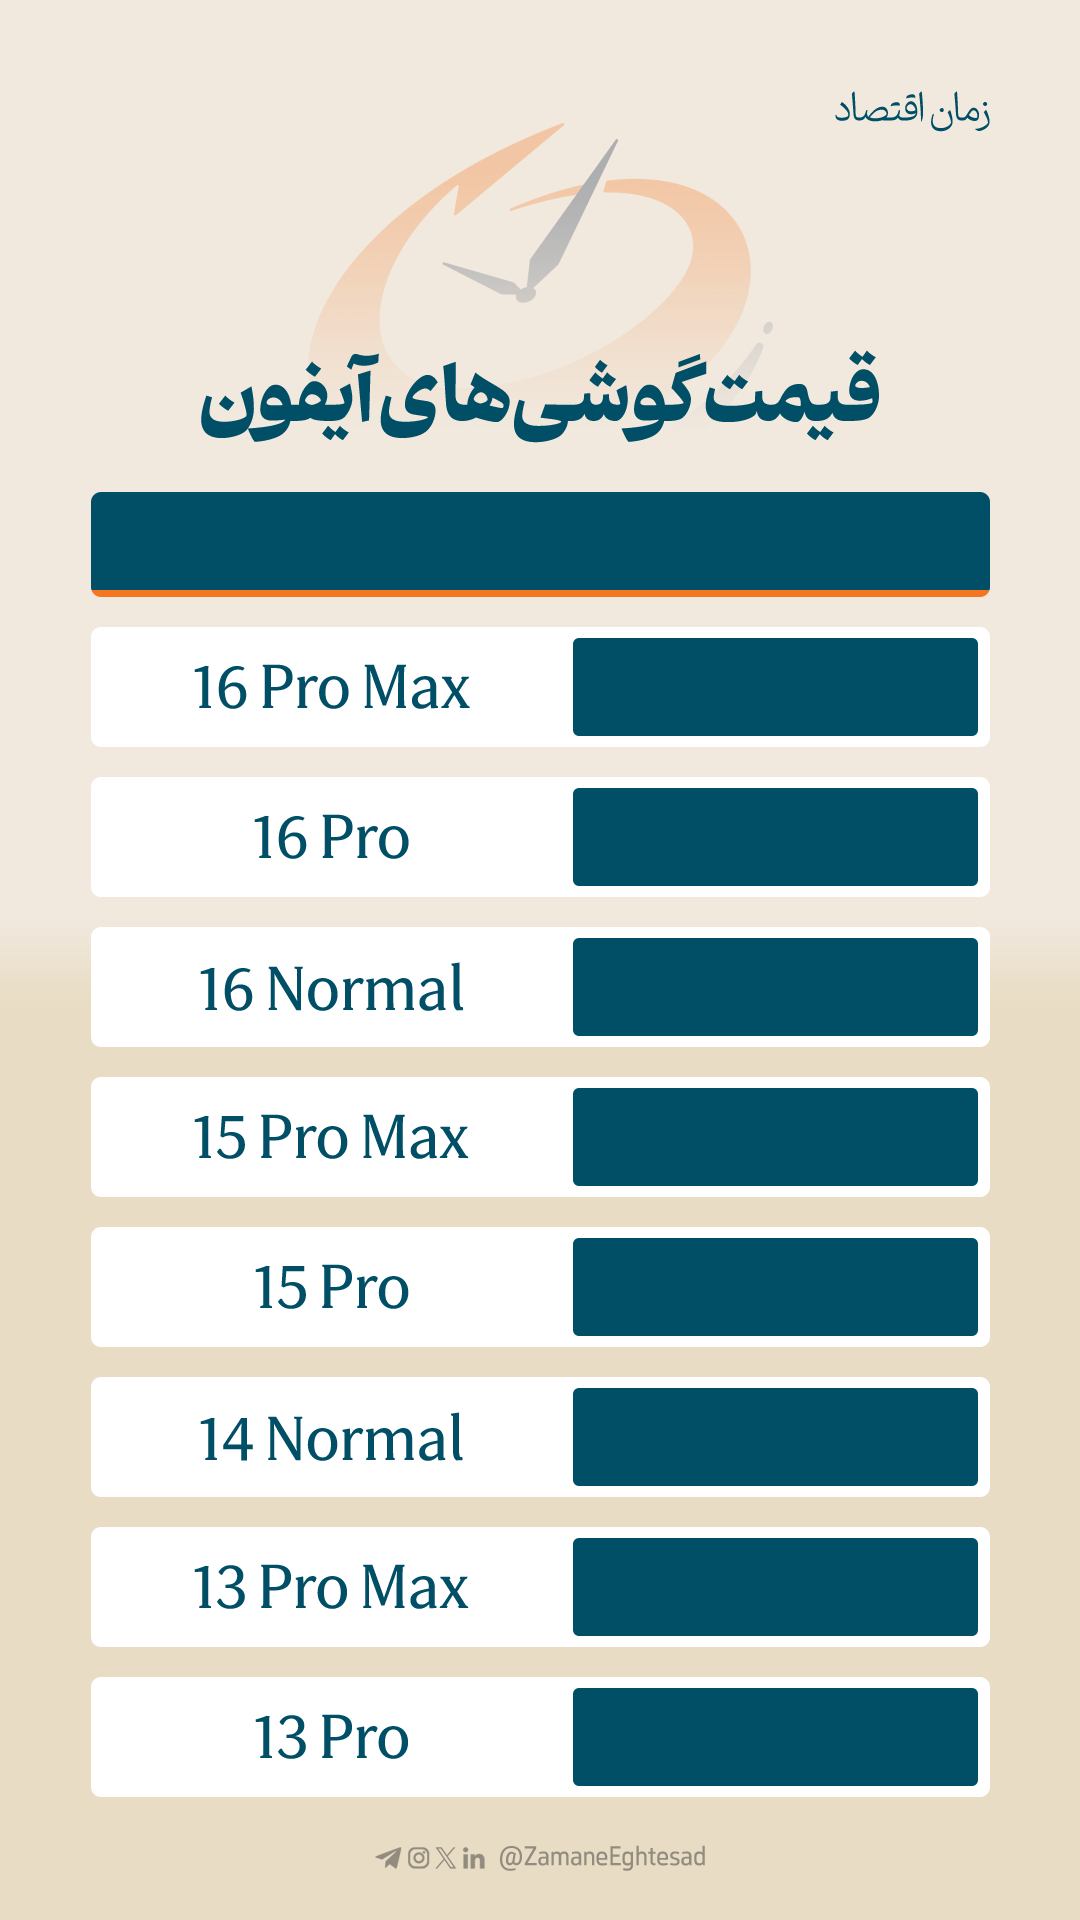
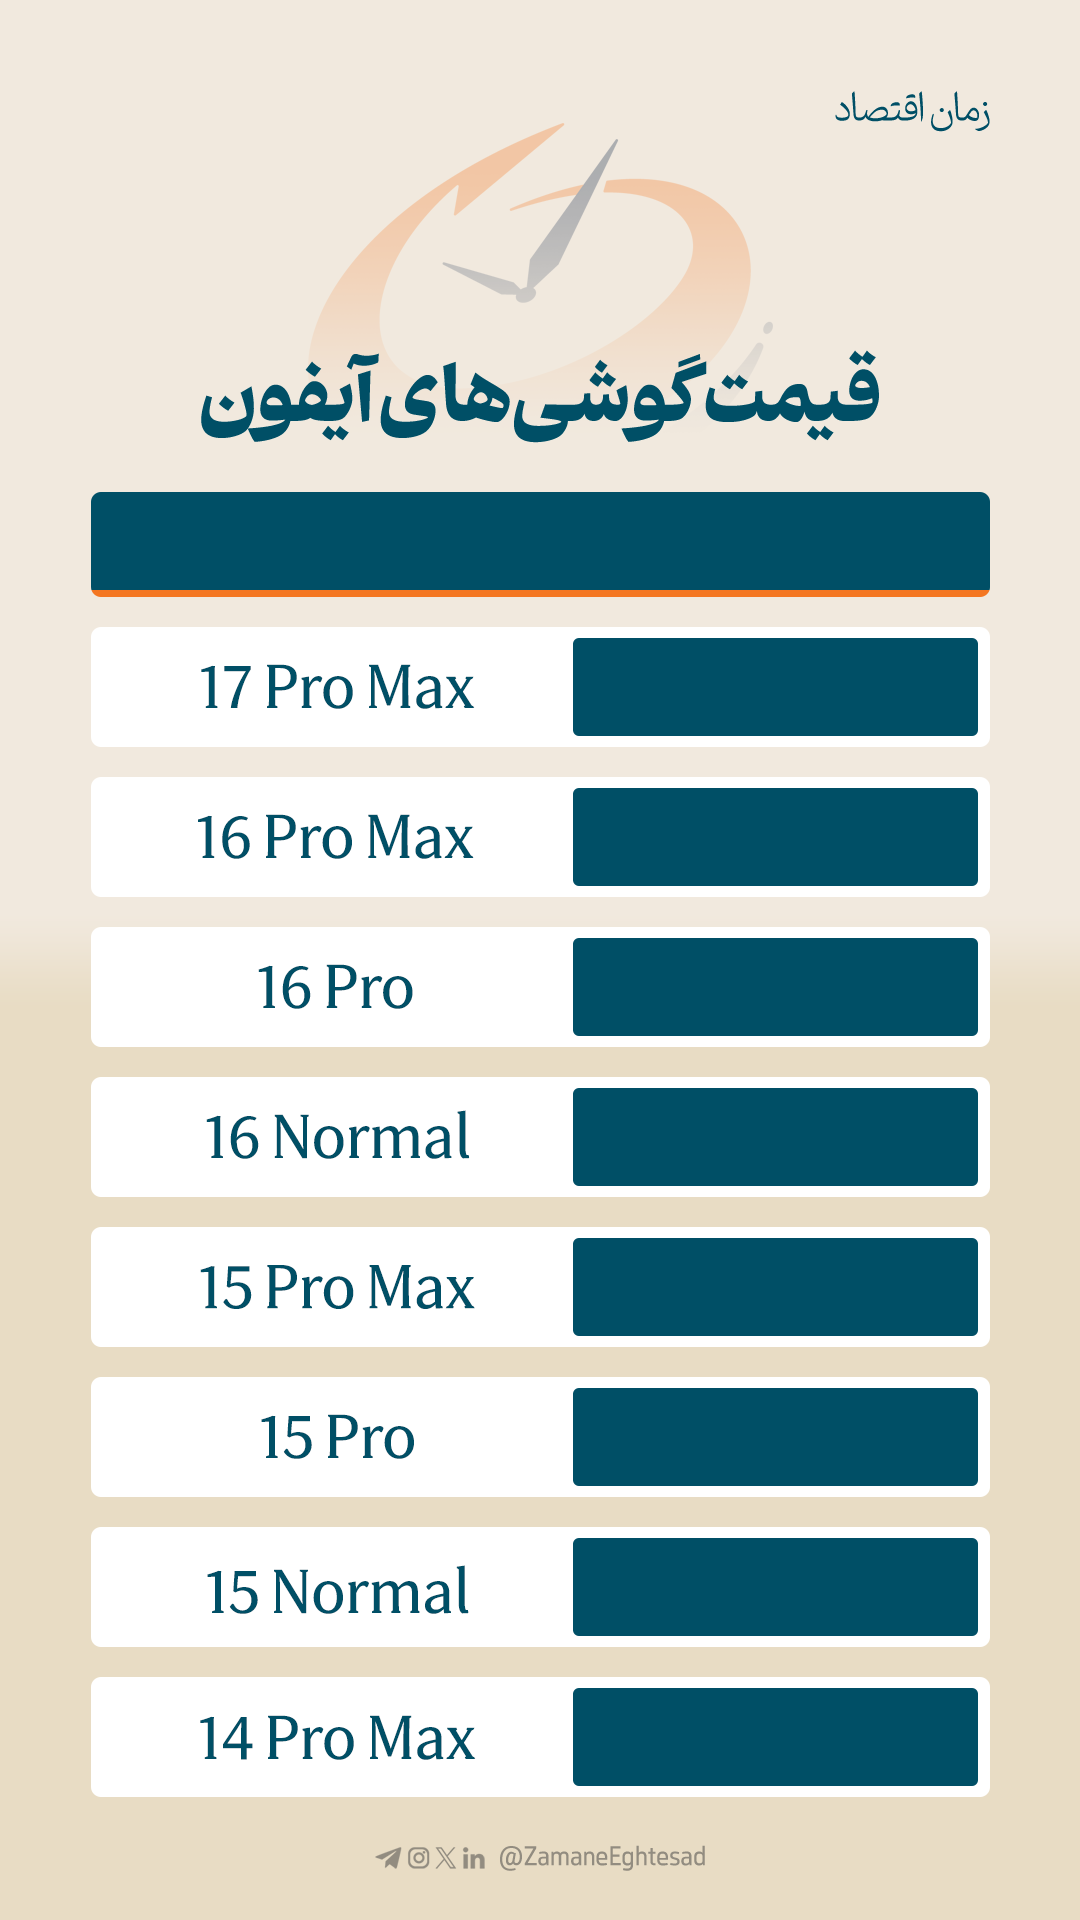
.

diff --git a/src/iPhone.ts b/src/iPhone.ts
@@ -228,21 +228,21 @@ function buildFormMenu(conversation: Conversation<MyContext, any>, data: FormDat
     return (
         conversation
             .menu("form")
-            .text(data.IPHONE16PROMAX ? "16 Pro Max" : "16 Pro Max", (ctx) => ctx.conversation.enter("IPHONE16PROMAXConversation"))
+            .text(data.IPHONE16PROMAX ? "17 Pro Max" : "17 Pro Max", (ctx) => ctx.conversation.enter("IPHONE16PROMAXConversation"))
             .row()
-            .text(data.IPHONE16PRO ? "16 Pro " : "16 Pro ", (ctx) => ctx.conversation.enter("IPHONE16PROConversation"))
+            .text(data.IPHONE16PRO ? "16 Pro Max " : "16 Pro Max ", (ctx) => ctx.conversation.enter("IPHONE16PROConversation"))
             .row()
-            .text(data.IPHONE16NORMAL ? "16 Normal " : "16 Normal ", (ctx) => ctx.conversation.enter("IPHONE16NORMALConversation"))
+            .text(data.IPHONE16NORMAL ? "16 Pro " : "16 Pro ", (ctx) => ctx.conversation.enter("IPHONE16NORMALConversation"))
             .row()
-            .text(data.IPHONE15PROMAX ? "15 Pro Max " : "15 Pro Max ", (ctx) => ctx.conversation.enter("IPHONE15PROMAXConversation"))
+            .text(data.IPHONE15PROMAX ? "16 Normal " : "16 Normal ", (ctx) => ctx.conversation.enter("IPHONE15PROMAXConversation"))
             .row()
-            .text(data.IPHONE15PRO ? "15 Pro " : "15 Pro ", (ctx) => ctx.conversation.enter("IPHONE15PROConversation"))
+            .text(data.IPHONE15PRO ? "15 Pro Max " : "15 Pro Max ", (ctx) => ctx.conversation.enter("IPHONE15PROConversation"))
             .row()
-            .text(data.IPHONE14NORMAL ? "14 Normal " : "14 Normal ", (ctx) => ctx.conversation.enter("IPHONE14NORMALConversation"))
+            .text(data.IPHONE14NORMAL ? "15 Pro " : "15 Pro ", (ctx) => ctx.conversation.enter("IPHONE14NORMALConversation"))
             .row()
-            .text(data.IPHONE13PROMAX ? "13 Pro Max " : "13 Pro Max ", (ctx) => ctx.conversation.enter("IPHONE13PROMAXConversation"))
+            .text(data.IPHONE13PROMAX ? "15 Normal " : "15 Normal ", (ctx) => ctx.conversation.enter("IPHONE13PROMAXConversation"))
             .row()
-            .text(data.IPHONE13PROMAX ? "13 Pro " : "13 Pro ", (ctx) => ctx.conversation.enter("IPHONE13PROConversation"))
+            .text(data.IPHONE13PROMAX ? "14 Pro Max " : "14 Pro Max ", (ctx) => ctx.conversation.enter("IPHONE13PROConversation"))
             .row()
             .text("فایل ✅", (ctx) => ctx.conversation.enter("finishConversation"))
             .text("🧹", (ctx) => ctx.conversation.enter("clearFormConversation"))
@@ -258,14 +258,14 @@ function createiPhoneConversation(fieldName: iPhoneField, prompt: string) {
     };
 }
 
-const IPHONE16PROMAXConversation = createiPhoneConversation("IPHONE16PROMAX", "لطفا مقدار   iPhone 16 Pro Max  را وارد کنید");
-const IPHONE16PROConversation = createiPhoneConversation("IPHONE16PRO", "لطفا مقدار iPhone 16 Pro را وارد کنید");
-const IPHONE16NORMALConversation = createiPhoneConversation("IPHONE16NORMAL", "لطفا مقدار iPhone 16 Normal را وارد کنید");
-const IPHONE15PROMAXConversation = createiPhoneConversation("IPHONE15PROMAX", "لطفا مقدار iPhone 15 Pro Max را وارد کنید");
-const IPHONE15PROConversation = createiPhoneConversation("IPHONE15PRO", "لطفا مقدار iPhone 15 Pro را وارد کنید");
-const IPHONE14NORMALConversation = createiPhoneConversation("IPHONE14NORMAL", "لطفا مقدار iPhone 14 Normal را وارد کنید");
-const IPHONE13PROMAXConversation = createiPhoneConversation("IPHONE13PROMAX", "لطفا مقدار iPhone 13 Pro Max  را وارد کنید");
-const IPHONE13PROConversation = createiPhoneConversation("IPHONE13PRO", "لطفا مقدار iPhone 13 Pro  را وارد کنید");
+const IPHONE16PROMAXConversation = createiPhoneConversation("IPHONE16PROMAX", "لطفا مقدار   iPhone 17 Pro Max  را وارد کنید");
+const IPHONE16PROConversation = createiPhoneConversation("IPHONE16PRO", "لطفا مقدار iPhone 16 Pro Max را وارد کنید");
+const IPHONE16NORMALConversation = createiPhoneConversation("IPHONE16NORMAL", "لطفا مقدار iPhone 16 Pro را وارد کنید");
+const IPHONE15PROMAXConversation = createiPhoneConversation("IPHONE15PROMAX", "لطفا مقدار iPhone 16 Normal را وارد کنید");
+const IPHONE15PROConversation = createiPhoneConversation("IPHONE15PRO", "لطفا مقدار iPhone 15 Pro Max را وارد کنید");
+const IPHONE14NORMALConversation = createiPhoneConversation("IPHONE14NORMAL", "لطفا مقدار iPhone 15 Pro را وارد کنید");
+const IPHONE13PROMAXConversation = createiPhoneConversation("IPHONE13PROMAX", "لطفا مقدار iPhone 15 Normal  را وارد کنید");
+const IPHONE13PROConversation = createiPhoneConversation("IPHONE13PRO", "لطفا مقدار iPhone 14 Pro Max  را وارد کنید");
 
 // clear form conversation
 async function clearFormConversation(conversation: FieldConversation, ctx: FieldContext) {
@@ -330,24 +330,24 @@ async function finishConversation(
 
 // ---- Access Control Gate ----
 bot.use(async (ctx, next) => {
-  // 1) Never send deny messages outside DMs
-  const chatType = ctx.chat?.type; // 'private' | 'group' | 'supergroup' | 'channel'
-  const isDM = chatType === "private";
+    // 1) Never send deny messages outside DMs
+    const chatType = ctx.chat?.type; // 'private' | 'group' | 'supergroup' | 'channel'
+    const isDM = chatType === "private";
 
-  // For channels, there is usually no ctx.from; skip entirely.
-  if (chatType === "channel") return; // do nothing in channels
+    // For channels, there is usually no ctx.from; skip entirely.
+    if (chatType === "channel") return; // do nothing in channels
 
-  const uid = ctx.from?.id;
-  if (!uid) return; // ignore updates without a user
+    const uid = ctx.from?.id;
+    if (!uid) return; // ignore updates without a user
 
-  // 2) Allow admins/allowed everywhere
-  if (isAdmin(uid) || isAllowed(uid)) return next();
+    // 2) Allow admins/allowed everywhere
+    if (isAdmin(uid) || isAllowed(uid)) return next();
 
-  // 3) Block silently in groups/supergroups, show message only in DMs
-  if (isDM) {
-    try { await ctx.reply("⛔ You are not allowed to use this bot."); } catch {}
-  }
-  return; // block
+    // 3) Block silently in groups/supergroups, show message only in DMs
+    if (isDM) {
+        try { await ctx.reply("⛔ You are not allowed to use this bot."); } catch { }
+    }
+    return; // block
 });
 
 // --------------------------------------------------
@@ -370,21 +370,21 @@ bot.use(createConversation(finishConversation, "finishConversation"));
 //  Stand‑alone menu instance (needed for /start)
 // --------------------------------------------------
 export const formMenu = new Menu<MyContext>("form", { onMenuOutdated: false })
-    .text((ctx) => collectFormData(ctx).IPHONE16PROMAX ? "16 Pro Max" : "16 Pro Max", (ctx) => ctx.conversation.enter("IPHONE16PROMAXConversation"))
+    .text((ctx) => collectFormData(ctx).IPHONE16PROMAX ? "17 Pro Max" : "17 Pro Max", (ctx) => ctx.conversation.enter("IPHONE16PROMAXConversation"))
     .row()
-    .text((ctx) => collectFormData(ctx).IPHONE16PRO ? "16 Pro " : "16 Pro ", (ctx) => ctx.conversation.enter("IPHONE16PROConversation"))
+    .text((ctx) => collectFormData(ctx).IPHONE16PRO ? "16 Pro Max " : "16 Pro Max ", (ctx) => ctx.conversation.enter("IPHONE16PROConversation"))
     .row()
-    .text((ctx) => collectFormData(ctx).IPHONE16NORMAL ? "16 Normal " : "16 Normal ", (ctx) => ctx.conversation.enter("IPHONE16NORMALConversation"))
+    .text((ctx) => collectFormData(ctx).IPHONE16NORMAL ? "16 Pro " : "16 Pro ", (ctx) => ctx.conversation.enter("IPHONE16NORMALConversation"))
     .row()
-    .text((ctx) => collectFormData(ctx).IPHONE15PROMAX ? "15 Pro Max " : "15 Pro Max ", (ctx) => ctx.conversation.enter("IPHONE15PROMAXConversation"))
+    .text((ctx) => collectFormData(ctx).IPHONE15PROMAX ? "16 Normal " : "16 Normal ", (ctx) => ctx.conversation.enter("IPHONE15PROMAXConversation"))
     .row()
-    .text((ctx) => collectFormData(ctx).IPHONE15PRO ? "15 Pro " : "15 Pro ", (ctx) => ctx.conversation.enter("IPHONE15PROConversation"))
+    .text((ctx) => collectFormData(ctx).IPHONE15PRO ? "15 Pro Max " : "15 Pro Max ", (ctx) => ctx.conversation.enter("IPHONE15PROConversation"))
     .row()
-    .text((ctx) => collectFormData(ctx).IPHONE14NORMAL ? "14 Normal " : "14 Normal ", (ctx) => ctx.conversation.enter("IPHONE14NORMALConversation"))
+    .text((ctx) => collectFormData(ctx).IPHONE14NORMAL ? "15 Pro " : "15 Pro ", (ctx) => ctx.conversation.enter("IPHONE14NORMALConversation"))
     .row()
-    .text((ctx) => collectFormData(ctx).IPHONE13PROMAX ? "13 Pro Max " : "13 Pro Max ", (ctx) => ctx.conversation.enter("IPHONE13PROMAXConversation"))
+    .text((ctx) => collectFormData(ctx).IPHONE13PROMAX ? "15 Normal " : "15 Normal ", (ctx) => ctx.conversation.enter("IPHONE13PROMAXConversation"))
     .row()
-    .text((ctx) => collectFormData(ctx).IPHONE13PROMAX ? "13 Pro " : "13 Pro ", (ctx) => ctx.conversation.enter("IPHONE13PROConversation"))
+    .text((ctx) => collectFormData(ctx).IPHONE13PROMAX ? "14 Pro Max " : "14 Pro Max ", (ctx) => ctx.conversation.enter("IPHONE13PROConversation"))
     .row()
     .text("فایل ✅", (ctx) => ctx.conversation.enter("finishConversation"))
     .text("🧹", (ctx) => ctx.conversation.enter("clearFormConversation"));

diff --git a/build/iPhone.js b/build/iPhone.js
@@ -126,21 +126,21 @@ async function handleFieldInput(conversation, ctx, options, buildMenu) {
 function buildFormMenu(conversation, data) {
     return (conversation
         .menu("form")
-        .text(data.IPHONE16PROMAX ? "16 Pro Max" : "16 Pro Max", (ctx) => ctx.conversation.enter("IPHONE16PROMAXConversation"))
+        .text(data.IPHONE16PROMAX ? "17 Pro Max" : "17 Pro Max", (ctx) => ctx.conversation.enter("IPHONE16PROMAXConversation"))
         .row()
-        .text(data.IPHONE16PRO ? "16 Pro " : "16 Pro ", (ctx) => ctx.conversation.enter("IPHONE16PROConversation"))
+        .text(data.IPHONE16PRO ? "16 Pro Max " : "16 Pro Max ", (ctx) => ctx.conversation.enter("IPHONE16PROConversation"))
         .row()
-        .text(data.IPHONE16NORMAL ? "16 Normal " : "16 Normal ", (ctx) => ctx.conversation.enter("IPHONE16NORMALConversation"))
+        .text(data.IPHONE16NORMAL ? "16 Pro " : "16 Pro ", (ctx) => ctx.conversation.enter("IPHONE16NORMALConversation"))
         .row()
-        .text(data.IPHONE15PROMAX ? "15 Pro Max " : "15 Pro Max ", (ctx) => ctx.conversation.enter("IPHONE15PROMAXConversation"))
+        .text(data.IPHONE15PROMAX ? "16 Normal " : "16 Normal ", (ctx) => ctx.conversation.enter("IPHONE15PROMAXConversation"))
         .row()
-        .text(data.IPHONE15PRO ? "15 Pro " : "15 Pro ", (ctx) => ctx.conversation.enter("IPHONE15PROConversation"))
+        .text(data.IPHONE15PRO ? "15 Pro Max " : "15 Pro Max ", (ctx) => ctx.conversation.enter("IPHONE15PROConversation"))
         .row()
-        .text(data.IPHONE14NORMAL ? "14 Normal " : "14 Normal ", (ctx) => ctx.conversation.enter("IPHONE14NORMALConversation"))
+        .text(data.IPHONE14NORMAL ? "15 Pro " : "15 Pro ", (ctx) => ctx.conversation.enter("IPHONE14NORMALConversation"))
         .row()
-        .text(data.IPHONE13PROMAX ? "13 Pro Max " : "13 Pro Max ", (ctx) => ctx.conversation.enter("IPHONE13PROMAXConversation"))
+        .text(data.IPHONE13PROMAX ? "15 Normal " : "15 Normal ", (ctx) => ctx.conversation.enter("IPHONE13PROMAXConversation"))
         .row()
-        .text(data.IPHONE13PROMAX ? "13 Pro " : "13 Pro ", (ctx) => ctx.conversation.enter("IPHONE13PROConversation"))
+        .text(data.IPHONE13PROMAX ? "14 Pro Max " : "14 Pro Max ", (ctx) => ctx.conversation.enter("IPHONE13PROConversation"))
         .row()
         .text("فایل ✅", (ctx) => ctx.conversation.enter("finishConversation"))
         .text("🧹", (ctx) => ctx.conversation.enter("clearFormConversation")));
@@ -153,14 +153,14 @@ function createiPhoneConversation(fieldName, prompt) {
         await handleFieldInput(conversation, ctx, { fieldName, promptMessage: prompt }, buildFormMenu);
     };
 }
-const IPHONE16PROMAXConversation = createiPhoneConversation("IPHONE16PROMAX", "لطفا مقدار   iPhone 16 Pro Max  را وارد کنید");
-const IPHONE16PROConversation = createiPhoneConversation("IPHONE16PRO", "لطفا مقدار iPhone 16 Pro را وارد کنید");
-const IPHONE16NORMALConversation = createiPhoneConversation("IPHONE16NORMAL", "لطفا مقدار iPhone 16 Normal را وارد کنید");
-const IPHONE15PROMAXConversation = createiPhoneConversation("IPHONE15PROMAX", "لطفا مقدار iPhone 15 Pro Max را وارد کنید");
-const IPHONE15PROConversation = createiPhoneConversation("IPHONE15PRO", "لطفا مقدار iPhone 15 Pro را وارد کنید");
-const IPHONE14NORMALConversation = createiPhoneConversation("IPHONE14NORMAL", "لطفا مقدار iPhone 14 Normal را وارد کنید");
-const IPHONE13PROMAXConversation = createiPhoneConversation("IPHONE13PROMAX", "لطفا مقدار iPhone 13 Pro Max  را وارد کنید");
-const IPHONE13PROConversation = createiPhoneConversation("IPHONE13PRO", "لطفا مقدار iPhone 13 Pro  را وارد کنید");
+const IPHONE16PROMAXConversation = createiPhoneConversation("IPHONE16PROMAX", "لطفا مقدار   iPhone 17 Pro Max  را وارد کنید");
+const IPHONE16PROConversation = createiPhoneConversation("IPHONE16PRO", "لطفا مقدار iPhone 16 Pro Max را وارد کنید");
+const IPHONE16NORMALConversation = createiPhoneConversation("IPHONE16NORMAL", "لطفا مقدار iPhone 16 Pro را وارد کنید");
+const IPHONE15PROMAXConversation = createiPhoneConversation("IPHONE15PROMAX", "لطفا مقدار iPhone 16 Normal را وارد کنید");
+const IPHONE15PROConversation = createiPhoneConversation("IPHONE15PRO", "لطفا مقدار iPhone 15 Pro Max را وارد کنید");
+const IPHONE14NORMALConversation = createiPhoneConversation("IPHONE14NORMAL", "لطفا مقدار iPhone 15 Pro را وارد کنید");
+const IPHONE13PROMAXConversation = createiPhoneConversation("IPHONE13PROMAX", "لطفا مقدار iPhone 15 Normal  را وارد کنید");
+const IPHONE13PROConversation = createiPhoneConversation("IPHONE13PRO", "لطفا مقدار iPhone 14 Pro Max  را وارد کنید");
 // clear form conversation
 async function clearFormConversation(conversation, ctx) {
     await ctx.answerCallbackQuery();
@@ -238,21 +238,21 @@ bot.use((0, conversations_1.createConversation)(finishConversation, "finishConve
 //  Stand‑alone menu instance (needed for /start)
 // --------------------------------------------------
 exports.formMenu = new menu_1.Menu("form", { onMenuOutdated: false })
-    .text((ctx) => collectFormData(ctx).IPHONE16PROMAX ? "16 Pro Max" : "16 Pro Max", (ctx) => ctx.conversation.enter("IPHONE16PROMAXConversation"))
+    .text((ctx) => collectFormData(ctx).IPHONE16PROMAX ? "17 Pro Max" : "17 Pro Max", (ctx) => ctx.conversation.enter("IPHONE16PROMAXConversation"))
     .row()
-    .text((ctx) => collectFormData(ctx).IPHONE16PRO ? "16 Pro " : "16 Pro ", (ctx) => ctx.conversation.enter("IPHONE16PROConversation"))
+    .text((ctx) => collectFormData(ctx).IPHONE16PRO ? "16 Pro Max " : "16 Pro Max ", (ctx) => ctx.conversation.enter("IPHONE16PROConversation"))
     .row()
-    .text((ctx) => collectFormData(ctx).IPHONE16NORMAL ? "16 Normal " : "16 Normal ", (ctx) => ctx.conversation.enter("IPHONE16NORMALConversation"))
+    .text((ctx) => collectFormData(ctx).IPHONE16NORMAL ? "16 Pro " : "16 Pro ", (ctx) => ctx.conversation.enter("IPHONE16NORMALConversation"))
     .row()
-    .text((ctx) => collectFormData(ctx).IPHONE15PROMAX ? "15 Pro Max " : "15 Pro Max ", (ctx) => ctx.conversation.enter("IPHONE15PROMAXConversation"))
+    .text((ctx) => collectFormData(ctx).IPHONE15PROMAX ? "16 Normal " : "16 Normal ", (ctx) => ctx.conversation.enter("IPHONE15PROMAXConversation"))
     .row()
-    .text((ctx) => collectFormData(ctx).IPHONE15PRO ? "15 Pro " : "15 Pro ", (ctx) => ctx.conversation.enter("IPHONE15PROConversation"))
+    .text((ctx) => collectFormData(ctx).IPHONE15PRO ? "15 Pro Max " : "15 Pro Max ", (ctx) => ctx.conversation.enter("IPHONE15PROConversation"))
     .row()
-    .text((ctx) => collectFormData(ctx).IPHONE14NORMAL ? "14 Normal " : "14 Normal ", (ctx) => ctx.conversation.enter("IPHONE14NORMALConversation"))
+    .text((ctx) => collectFormData(ctx).IPHONE14NORMAL ? "15 Pro " : "15 Pro ", (ctx) => ctx.conversation.enter("IPHONE14NORMALConversation"))
     .row()
-    .text((ctx) => collectFormData(ctx).IPHONE13PROMAX ? "13 Pro Max " : "13 Pro Max ", (ctx) => ctx.conversation.enter("IPHONE13PROMAXConversation"))
+    .text((ctx) => collectFormData(ctx).IPHONE13PROMAX ? "15 Normal " : "15 Normal ", (ctx) => ctx.conversation.enter("IPHONE13PROMAXConversation"))
     .row()
-    .text((ctx) => collectFormData(ctx).IPHONE13PROMAX ? "13 Pro " : "13 Pro ", (ctx) => ctx.conversation.enter("IPHONE13PROConversation"))
+    .text((ctx) => collectFormData(ctx).IPHONE13PROMAX ? "14 Pro Max " : "14 Pro Max ", (ctx) => ctx.conversation.enter("IPHONE13PROConversation"))
     .row()
     .text("فایل ✅", (ctx) => ctx.conversation.enter("finishConversation"))
     .text("🧹", (ctx) => ctx.conversation.enter("clearFormConversation"));
